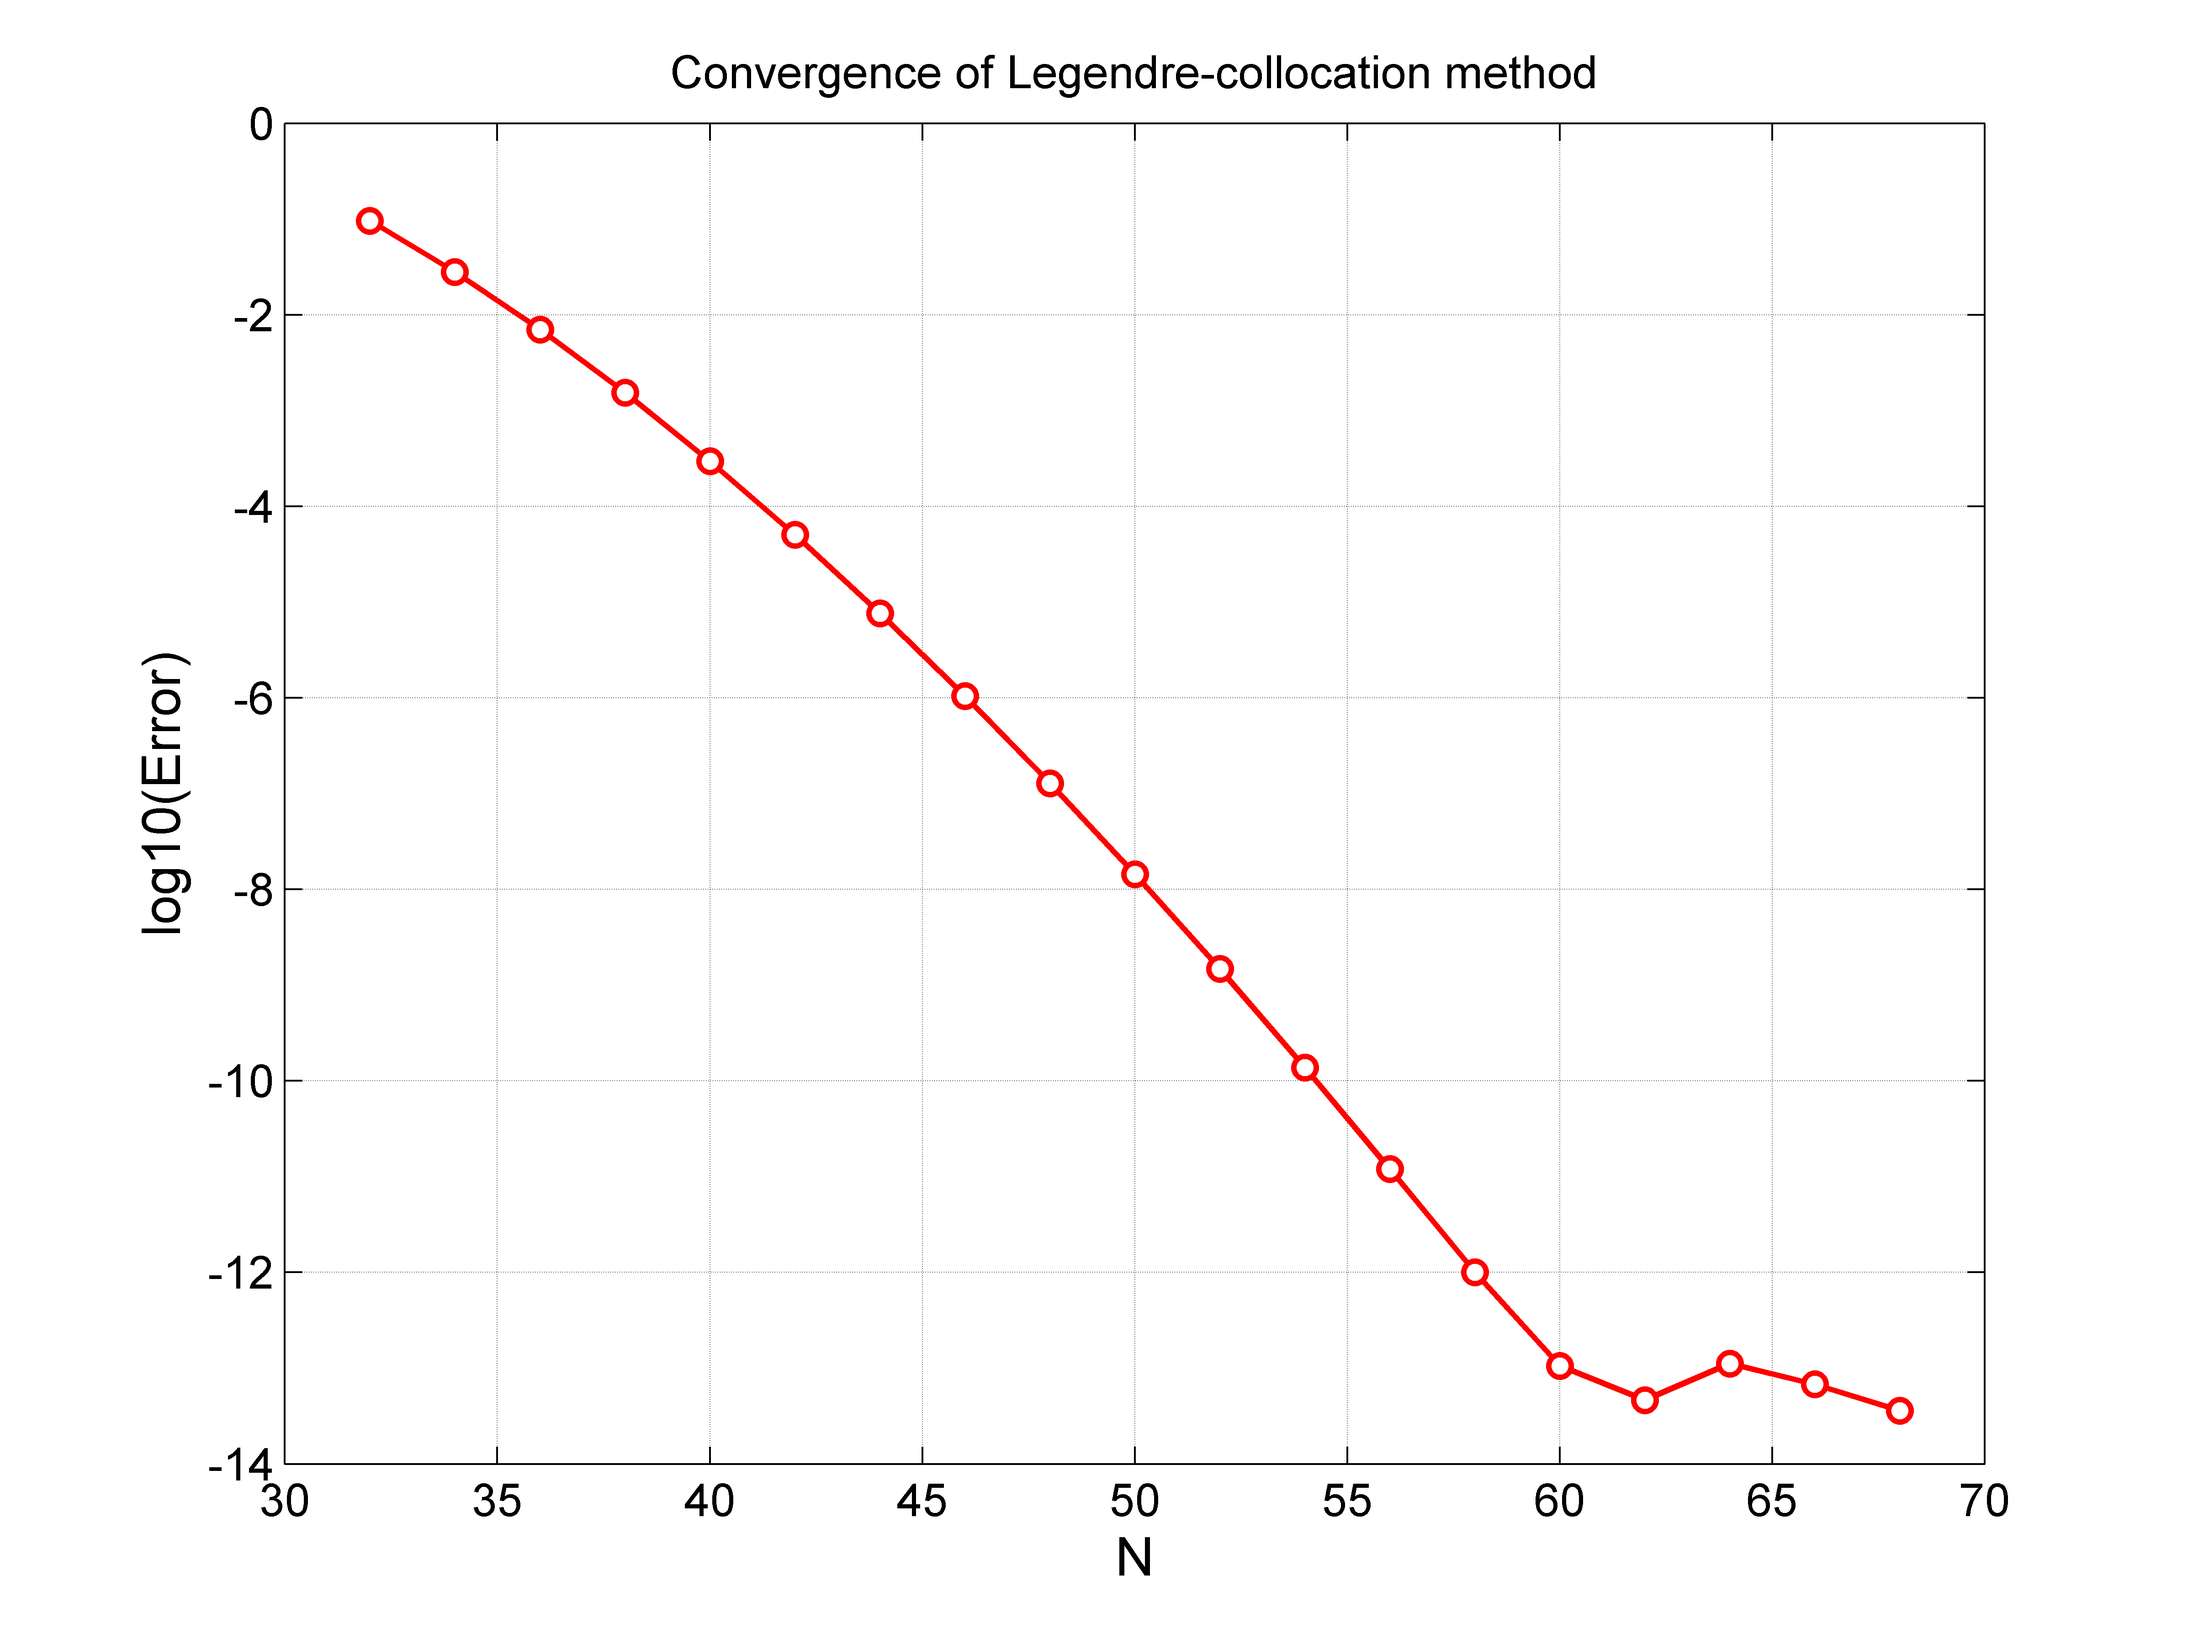
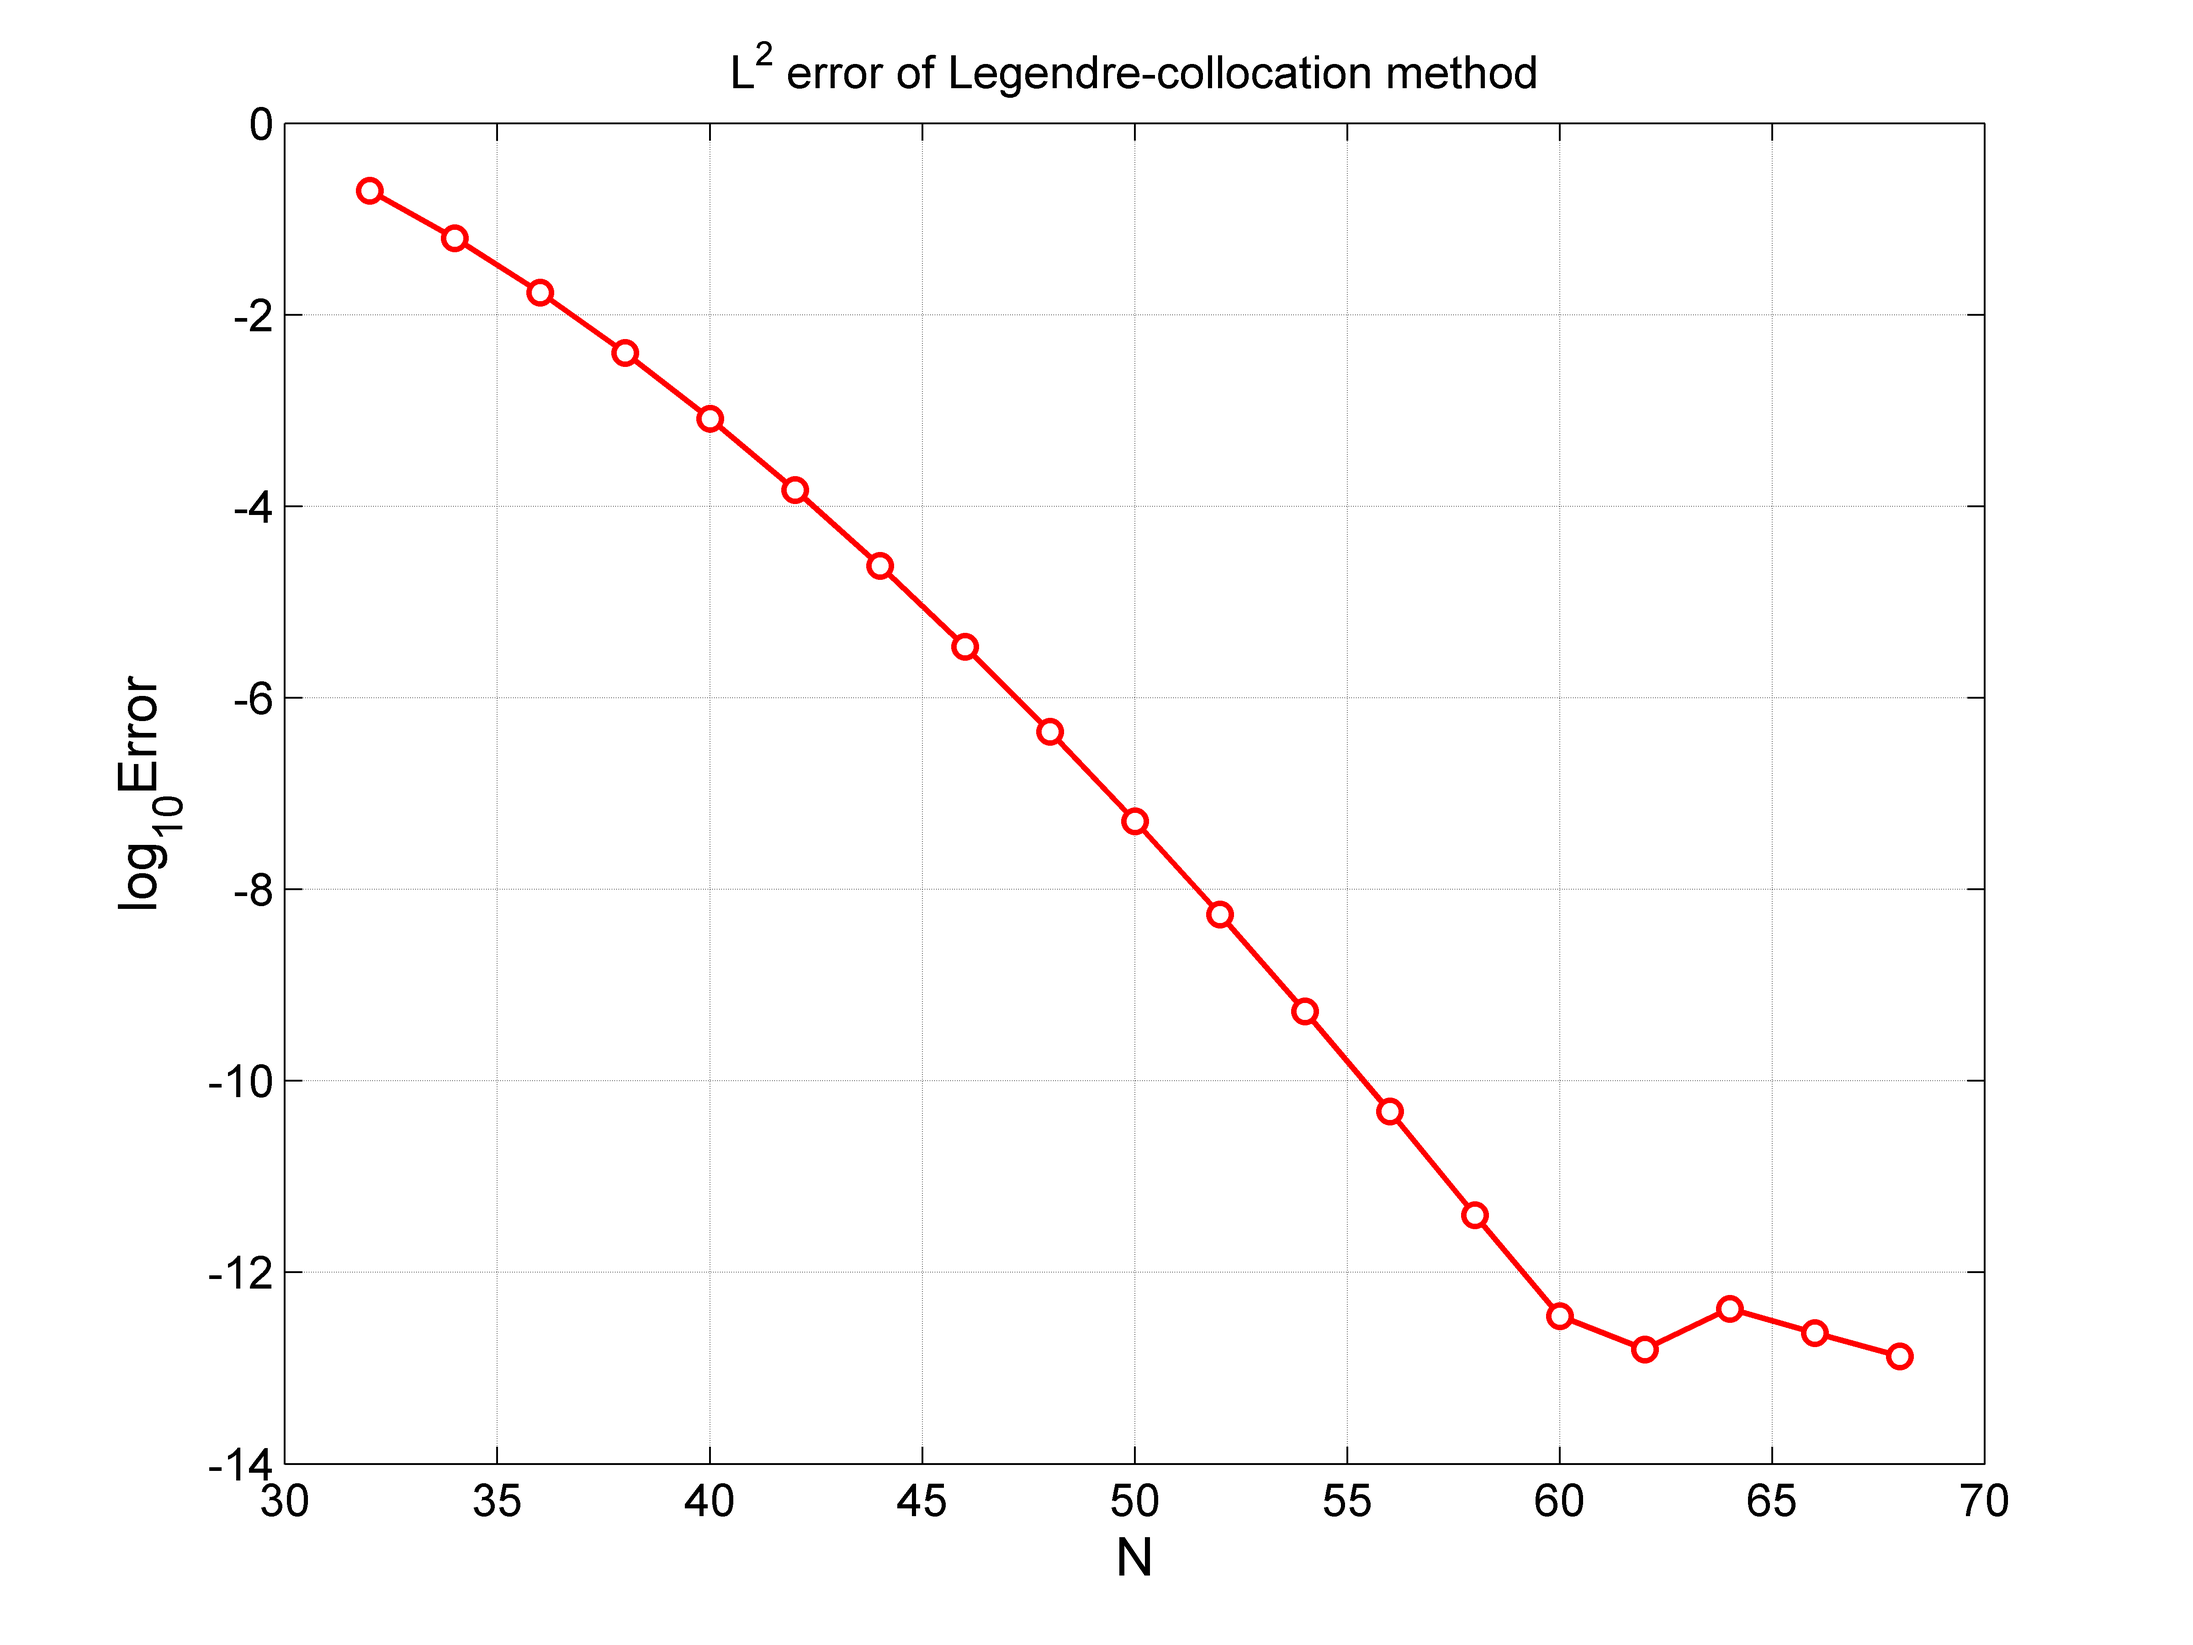
Update

diff --git a/SM Codes/LegenSM2_error.m b/SM Codes/LegenSM2_error.m
@@ -6,33 +6,33 @@
 % Rmk: Use routines lepoly(); legs(); lepolym();
 clear all;  clf
 kw=10;
-Nvec=[32:2:68];
+Nvec=[32:2:76];
 Errv=[];
 for N=Nvec
-    [xv,wv]=legs(N);             % Legendre-Gauss points and weights
-    Lm=lepolym(N+1,xv);    % Lm is a Legendre polynomal matrix 
+    [xv,wv]=legs(N+1);             % Legendre-Gauss points and weights
+    Lm=lepolym(N,xv);    % Lm is a Legendre polynomal matrix 
     u=sin(kw*pi*xv);            % test function
     f=kw*kw*pi^2*sin(kw*pi*xv)+sin(kw*pi*xv)+kw*pi*cos(kw*pi*xv);  % RHS
     % Calculating coefficients matrix
-    S=eye(N);   % stiffness matrix
-    M=diag(1./(4*[0:N-1]+6))*diag(2./(2*[0:N-1]+1)+2./(2*[0:N-1]+5))...
-        -diag(2./(sqrt(4*[0:N-3]+6).*sqrt(4*[0:N-3]+14).*(2*[0:N-3]+5)),2)...
-        -diag(2./(sqrt(4*[2:N-1]-2).*sqrt(4*[2:N-1]+6).*(2*[2:N-1]+1)),-2);  % mass matrix
-    D=diag(1./(sqrt(2.*[0:N-2]+3).*sqrt(2.*[0:N-2]+5)),1)...
-        +diag(-1./(sqrt(2.*[0:N-2]+3).*sqrt(2.*[0:N-2]+5)),-1);          % matrix derived from u'(x)
+    S=eye(N-1);   % stiffness matrix
+    M=diag(1./(4*[0:N-2]+6))*diag(2./(2*[0:N-2]+1)+2./(2*[0:N-2]+5))...
+        -diag(2./(sqrt(4*[0:N-4]+6).*sqrt(4*[0:N-4]+14).*(2*[0:N-4]+5)),2)...
+        -diag(2./(sqrt(4*[2:N-2]-2).*sqrt(4*[2:N-2]+6).*(2*[2:N-2]+1)),-2);    % mass matrix
+    D=diag(1./(sqrt(2.*[0:N-3]+3).*sqrt(2.*[0:N-3]+5)),1)...
+        +diag(-1./(sqrt(2.*[0:N-3]+3).*sqrt(2.*[0:N-3]+5)),-1);          % matrix of derivative term
     A=S+M+D;       % Coefficient matrix
     % Solving the linear system
-    B=diag(1./sqrt(4*[0:N-1]+6))*(Lm(1:end-2,:)-Lm(3:end,:));   % RHS calculative matrix
-    b=B*diag(wv)*f; 
+    Pm=diag(1./sqrt(4*[0:N-2]+6))*(Lm(1:end-2,:)-Lm(3:end,:));   % RHS calculative matrix
+    b=Pm*diag(wv)*f; 
     uh=A\b;          % expansion coefficients of u_N in terms of the basis
-    un=B'*uh;        % Coefficiets to points
+    un=Pm'*uh;        % Coefficiets to points
     error=norm(abs(un-u),inf);   % maximum pointwise error
     Errv=[Errv;error]; 
 end
 % Plot the maximum pointwise error
 plot(Nvec,log10(Errv),'md-','MarkerFaceColor','w','LineWidth',1.5)
-grid on, xlabel('N','fontsize', 14), ylabel('log10(Error)','fontsize',14) 
-title('Round-off error of Legendre-Galerkin methods','fontsize',12)
+grid on, xlabel('N','fontsize', 14), ylabel('log_{10}Error','fontsize',14) 
+title('L^{\infty} error of Legendre-Galerkin methods','fontsize',12)
 set(gca,'fontsize',12)
 
 

diff --git a/SM Codes/LegenSM1_error.m b/SM Codes/LegenSM1_error.m
@@ -5,34 +5,35 @@
 % Rmk: Use routines lepoly(); legs(); lepolym();
 clear all;  clf
 kw=10;
-Nvec=[32:2:68];    % kw=10
+Nvec=[32:2:76];    % kw=10
 %Nvec=[4:2:22]    % kw=1
 Errv=[];                 % Initialization for error
 for N=Nvec
-    [xv,wv]=legs(N);            % Legendre-Gauss points and weights
-    Lm=lepolym(N+1,xv);    % Lm is a Legendre polynomal matrix 
+    [xv,wv]=legs(N+1);            % Legendre-Gauss points and weights
+    Lm=lepolym(N,xv);    % Lm is a Legendre polynomal matrix 
     u=sin(kw*pi*xv);            % test function
     f=kw*kw*pi^2*sin(kw*pi*xv)+sin(kw*pi*xv);      % Right-hand-side(RHS)
     % Calculting coefficient matrix
-    S=eye(N);         % stiff matrix
-    M=diag(1./(4*[0:N-1]+6))*diag(2./(2*[0:N-1]+1)+2./(2*[0:N-1]+5))...
-        -diag(2./(sqrt(4*[0:N-3]+6).*sqrt(4*[0:N-3]+14).*(2*[0:N-3]+5)),2)...
-        -diag(2./(sqrt(4*[2:N-1]-2).*sqrt(4*[2:N-1]+6).*(2*[2:N-1]+1)),-2);    % mass matrix
+    S=eye(N-1);         % stiff matrix
+    M=diag(1./(4*[0:N-2]+6))*diag(2./(2*[0:N-2]+1)+2./(2*[0:N-2]+5))...
+        -diag(2./(sqrt(4*[0:N-4]+6).*sqrt(4*[0:N-4]+14).*(2*[0:N-4]+5)),2)...
+        -diag(2./(sqrt(4*[2:N-2]-2).*sqrt(4*[2:N-2]+6).*(2*[2:N-2]+1)),-2);    % mass matrix
     A=S+M;
     % Solving the linear system
-    B=diag(1./sqrt(4*[0:N-1]+6))*(Lm(1:end-2,:)-Lm(3:end,:));   % RHS calculative matrix
-    b=B*diag(wv)*f;          % Solving RHS
+    Pm=diag(1./sqrt(4*[0:N-2]+6))*(Lm(1:end-2,:)-Lm(3:end,:));   % RHS calculative matrix
+    b=Pm*diag(wv)*f;          % Solving RHS
     uh=A\b;                     % expansion coefficients of u_N in terms of the basis
-    un=B'*uh;                   % compositing the numerical solution
+    un=Pm'*uh;                   % compositing the numerical solution
     
-    error=norm(abs(un-u),inf);  % maximum pointwise error 
+    %error=norm(abs(un-u),2);  % maximum pointwise error 
+    error=norm(abs(un-u),2);   % L^2 error
     Errv=[Errv;error];
 end
 % Plot the maximum pointwise error
 plot(Nvec,log10(Errv),'ro-','MarkerFaceColor','w','LineWidth',1.5)
 grid on, 
-xlabel('N','fontsize', 14), ylabel('log10(Error)','fontsize',14)
-title('Round-off error of Legendre-Galerkin methods','fontsize',12)
+xlabel('N','fontsize', 14), ylabel('log_{10}Error','fontsize',14)
+title('L^2 error of Legendre-Galerkin methods','fontsize',12)
 set(gca,'fontsize',12)
 
 

diff --git a/SM Codes/LegenSM3_error.m b/SM Codes/LegenSM3_error.m
@@ -6,17 +6,17 @@
 % exact solution: U=(1/2-1/2*x)^2*exp(1/2*x+1/2)-1;
 % RHS:  F=-2*x*exp(1/2*x+1/2)-1.
 clear all;  clf
-Nvec=2:16;  
+Nvec=3:16;  
 Errv=[];  condnv=[];                % Initialization for error and condition number
 for N=Nvec
-    [xv,wv]=legs(N);               % xv and wv are Legendre-Gauss points and weights
-    Lm=lepolym(N+1,xv);      % Lm is a Legendre polynomal matrix 
+    [xv,wv]=legs(N+1);               % xv and wv are Legendre-Gauss points and weights
+    Lm=lepolym(N,xv);      % Lm is a Legendre polynomal matrix 
     yv=1/2*(xv+1);                 % variable substitution 
     U=(1-yv).^2.*exp(yv)-1;    % test function
     F=(2-4*yv).*exp(yv)-1;       % RHS in [0,1] 
     
     % Calculting coefficient matrix
-    e1=0:N-1;  e2=0:N-2;  e3=0:N-3;
+    e1=0:N-2;  e2=0:N-3;  e3=0:N-4;
     S=diag( (4*e1+6).*(e1+1).^2./(e1+2).^2 );     % stiff matrix
     M=diag(2./(2*e1+1)+2*(2*e1+3)./(e1+2).^4+2*((e1+1)./(e1+2)).^4./(2*e1+5))...
         +diag( 2./(e2+2).^2-2*(e2+1).^2./((e2+2).^2.*(e2+3).^2) , 1 )...
@@ -26,10 +26,10 @@ for N=Nvec
     A=4*S+M;
     
     % Solving the linear system
-    B=(Lm(1:end-2,:)+diag((2*e1+3)./(e1+2).^2)*Lm(2:end-1,:)-diag((e1+1).^2./(e1+2).^2)*Lm(3:end,:));
-    b=B*diag(wv)*F;          % Solving RHS
+    Pm=(Lm(1:end-2,:)+diag((2*e1+3)./(e1+2).^2)*Lm(2:end-1,:)-diag((e1+1).^2./(e1+2).^2)*Lm(3:end,:));
+    b=Pm*diag(wv)*F;          % Solving RHS
     Uh=A\b;                      % expansion coefficients of u_N in terms of the basis
-    Un=B'*Uh;                   % compositing the numerical solution
+    Un=Pm'*Uh;                   % compositing the numerical solution
     
     error=norm(abs(Un-U),2);  % L^2 error 
     Errv=[Errv;error];
@@ -38,7 +38,7 @@ end
 % Plot the maximum pointwise error
 plot(Nvec,log10(Errv),'s-','color',[0 0.5 0],'MarkerFaceColor','w','LineWidth',1.5)
 grid on, 
-xlabel('N','fontsize', 14), ylabel('log_{10}(Error)','fontsize',14)
+xlabel('N','fontsize', 14), ylabel('log_{10}Error','fontsize',14)
 title('L^2 error of Legendre-Galerkin method','fontsize',12)
 set(gca,'fontsize',12)
 

diff --git a/SM Codes/LegenCM1_error.m b/SM Codes/LegenCM1_error.m
@@ -24,12 +24,13 @@ for N=Nvec
     un=D\b;
     un=[0;un;0];               % Solve the system
     
-    error=norm(abs(un-u),inf);  % maximum pointwise error
+    %error=norm(abs(un-u),inf);  % maximum pointwise error
+    error=norm(abs(un-u),2);  % L^2 error
     Errv=[Errv;error];
 end;
   plot(Nvec,log10(Errv),'ro-','MarkerFaceColor','w','LineWidth',1.5)
-  grid on, xlabel('N','fontsize', 14), ylabel('log10(Error)','fontsize',14)
-  title('Convergence of Legendre-collocation method','fontsize',12)
+  grid on, xlabel('N','fontsize', 14), ylabel('log_{10}Error','fontsize',14)
+  title('L^{2} error of Legendre-collocation method','fontsize',12)
   set(gca,'fontsize',12) 
   
   

diff --git a/SM Codes/LegenCM2_error.m b/SM Codes/LegenCM2_error.m
@@ -26,8 +26,8 @@ end
 % Plot the maximum pointwise error 
 plot(Nv,log10(Errv),'md-','MarkerFaceColor','w','LineWidth',1.5)
 grid on, 
-xlabel('N','fontsize', 14), ylabel('log10(Error)','fontsize',14)
-title('Convergence of Legendre-collocation method','fontsize',12)
+xlabel('N','fontsize', 14), ylabel('log_{10}Error','fontsize',14)
+title('L^{\infty} error of Legendre-collocation method','fontsize',12)
 
 
 print -dpng -r600  LegenCM2_error.png

diff --git a/SM Codes/LegenCM3_error.m b/SM Codes/LegenCM3_error.m
@@ -26,7 +26,7 @@ for N=Nvec
 end
 % Plot the L^2 error 
 plot(Nvec,log10(Errv),'s-','color',[0 0.5 0],'MarkerFaceColor','w','LineWidth',1.5)
-grid on, xlabel('N','fontsize', 14), ylabel('log_{10}(Error)','fontsize',14),
+grid on, xlabel('N','fontsize', 14), ylabel('log_{10}Error','fontsize',14),
 title('L^2 error of Legendre-collocation method','fontsize',12)
 
 
